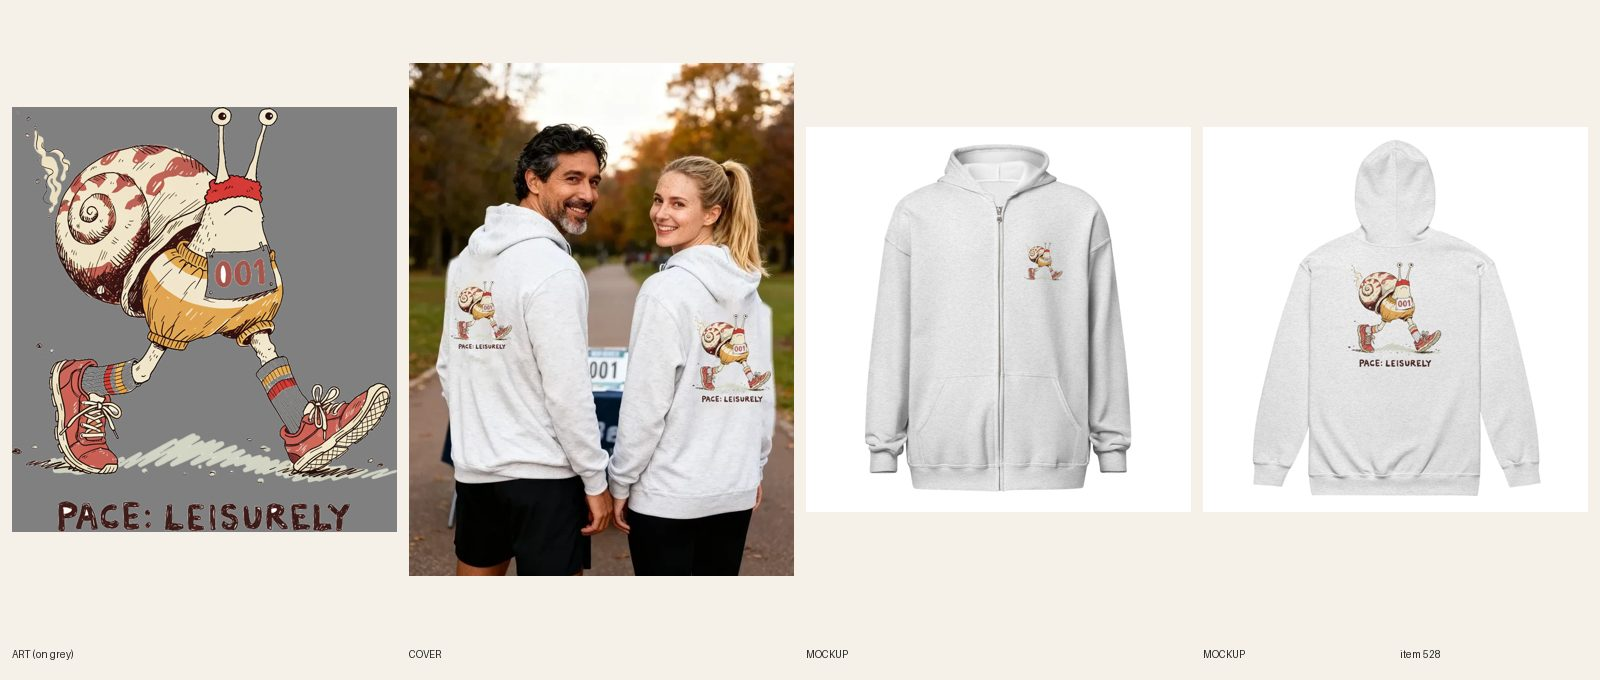
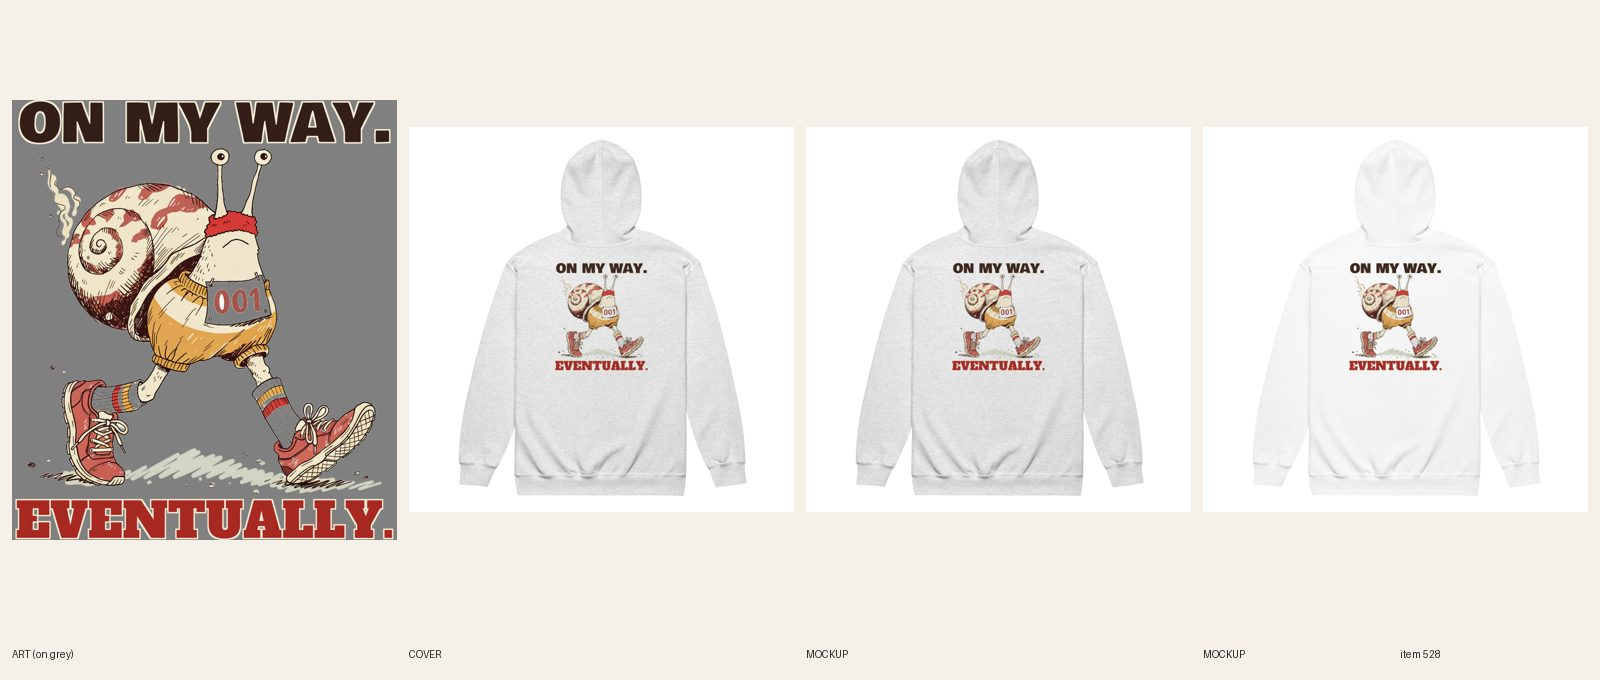
[C] review 528 (redo)
Claude-Session: https://claude.ai/code/session_01CCHcDj8LcJJ8qUPtKE3cvn

diff --git a/designs/c528/make.py b/designs/c528/make.py
@@ -1,0 +1,9 @@
+import sys; sys.path.insert(0,'.')
+from designs.lib import *
+im=Image.open('docs/print-files/528-pace-leisurely-zip-hoodie.png').convert('RGBA'); W=im.width
+art=im.crop((0,0,W,3530)); art=art.crop(art.getbbox()); art=art.resize((int(art.width*0.92),int(art.height*0.92)),Image.LANCZOS)
+DK=(52,30,24,255); RED=(200,56,48,255); DRED=(168,40,34,255)
+for tag,bg in (('ash',(200,200,200,255)),('white',(250,250,250,255))):
+    h1=line("ON MY WAY.",'bowlby',0.97,W,DK,CREAM,kw=29); h2=line("EVENTUALLY.",'alfa',0.985,W,DRED,CREAM,kw=27)
+    print(tag,'headline px',h1.width,'punch px',h2.width,'heights',h1.height,h2.height,'art',art.size)
+    out=lockup(art,W,[h1],[h2],f'528-v2-eventually-{tag}',{tag:bg}); print(out.size,out.height/out.width)

diff --git a/docs/pipeline/528-running-zip-hoodie-pace-leisurely.md b/docs/pipeline/528-running-zip-hoodie-pace-leisurely.md
@@ -1,4 +1,4 @@
-status: BUILDING [C] 2026-10-20 09:35
+status: REVIEW
 lane: C
 type: twin
 id: 528
@@ -27,3 +27,4 @@ kd: 44
 - 2026-10-18 02:54 UTC builder [C]: Sync 12/12. REVIEW. Sheet docs/review/528.jpg.
 - 2026-10-18 03:16 UTC director: LIVE. Sheet seen: snail in a race bib on the back, PACE: LEISURELY reads; small snail on the left chest; man and woman at a race, both in the zip hoodie. ACTIVE + Online Store, Headless, Google & YouTube; audit --handle PASS (0 warn).
 - 2026-10-18 17:22 UTC director: QUALITY RESET grade C (new line + type), REDO. The product stays ACTIVE (same handle, URL, title keyword). 1. Line (R3.12, quality-reset 'Lines'): "PACE: LEISURELY": Describes the snail picture; mild; thin hand lettering under art. Write 5 candidates, keep the one a stranger laughs at in 3 seconds without backstory; kill lines that only describe the picture; if none of the 5 is funny, PARK it. 2. Quality reset type bar (docs/backlog/quality-reset.md, 'The new bar'): headline at least 90% of the art width, heavy, colors pulled from the art; second line at least 45% of the headline's height, never a thin script on a dark or mid garment; use the lettering as a shape (arch, stacked lockup, words breaking into the art), not a plain bar above and a script line below; no font used on more than 1 in 6 of the last 30 designs. 3. Keep the art if it carries the new line, else one new illustration (R4/R5). New print means a new cover per R6.10, copy line one rewritten for the new joke (R8.3), and a fresh review sheet (R7.7). While quality-reset.md says PAUSED, only lane A builds, and only the samples step 2 names.
+- 2026-10-20 09:42 UTC builder [C]: REDO new line + type (grade C; title card 7i done). 5 candidates, compared with Oops. Anyway., Plot Twist: I Stayed In and Wildly Low Maintenance: "ON MY WAY. / EVENTUALLY." (kept: the snail's ETA, a runner's text to the group chat, deadpan), "PACE: LEISURELY" (old, describes the picture), "FINISH LINE? I'LL SEE IT.", "WINNING IS A GROUP PROJECT", "SLOW IS A PACE". Same snail-runner art at 92% (the old bottom line and the 001 bib kept as drawn; the old PACE: LEISURELY lettering removed). Measured ink widths (card 7h): headline ON MY WAY. 3482 px / punch EVENTUALLY. 3535 px (102%). Bowlby One headline, Alfa Slab One punch. Ash + White are both light and the ink is dark with no cream fill, so one file serves both (logged: no light file needed, headline fill dark brown); Ash back 1090281314, White back 1090281353 (same art; docs/print-files/528-v2-eventually-ash.png / -white.png). Back 3600 x 4114, BW 1650 BT 225 (about 1,885 px high, inside 2,400), chest file 1088646586 unchanged, 12/12 relinked (verified on the API). Both back mockups replaced in place, read at phone size. Title set to "Unisex Running – On My Way, Eventually Zip Hoodie" (handle unchanged); copy, FAQ and SEO rewritten; handle in retired-covers.json. Plain product shot. fal $0.

diff --git a/docs/intake-log.md b/docs/intake-log.md
@@ -23,6 +23,7 @@ RUNNING lane B since 2026-10-20 09:02 UTC
 2026-10-20 07:44 UTC — [B] Builder run: REDO round 3 of #455 Unisex Hanukkah Lost My Gelt crewneck (dreidel face marks painted out, Navy file 1090236634 + Sport Grey file 1090236680, FW 1650 TOP 0, 12/12 relinked, 2 fronts replaced in place) and #469 Women's Christmas embroidered crewneck (new line BOOKED / THROUGH JANUARY., headline 2197 / punch 2197 px, Sand file 1090237592 + Navy file 1090237605, 12/12 synced, title/SEO/copy/alts updated). Both REVIEW. #498 left for director (R3.14 note). fal $0.
 2026-10-20 08:00 UTC — [E] Builder run: redid #608 Women's Pickleball tee (line + type: POLITE SMILE. / PERSONAL VENDETTA., same serene-lady art, Bevan, dark-ink file on 5 light colors, 30/30 synced). REVIEW. fal $0.
 RUNNING lane C since 2026-10-20 07:00 UTC
+2026-10-20 09:42 UTC — [C] Builder run: redid #528 Unisex Running zip hoodie (new line + type: ON MY WAY. / EVENTUALLY., headline 3482 px / punch 3535 px, Bowlby + Alfa, same snail art, Ash file 1090281314 + White file 1090281353, BW 1650 BT 225, 12/12 relinked, back mockups replaced, title + copy + SEO updated). REVIEW. fal $0.
 2026-10-20 09:35 UTC — [C] Builder run: redid #524 Women's Funny daisy hoodie (type only: I SAID IT NICELY Bowlby + IN MY HEAD. Alfa Slab, headline 3256 px / punch 3283 px, Sand file 1090279357 + Light Pink file 1090279421, FW 1500 TOP 0, 12/12 relinked, 2 fronts replaced in place, copy updated). REVIEW. fal $0.
 2026-10-20 09:29 UTC — [C] Builder run: redid #526 Men's Chess hoodie (twin of #442: SORRY ABOUT / YOUR PAWN., headline 3313 px / punch 3354 px, Alfa Slab, Ash file 1090277160 + Navy file 1090277197, FW 1500 TOP 0, 12/12 relinked, 2 fronts replaced in place, title + copy + SEO updated). REVIEW. fal $0.
 2026-10-20 09:23 UTC — [C] Builder run: redid #516 Women's Dachshund hoodie (new line + type: OUT OF OFFICE. / BACK IN SPRING., headline 3309 px / punch 3360 px, Bowlby + Alfa, same quilt art, Sand file 1090275442 + Sport Grey file 1090275478, FW 1650 TOP 30, 12/12 relinked, 2 fronts replaced in place, title + copy + SEO updated). REVIEW. fal $0.
